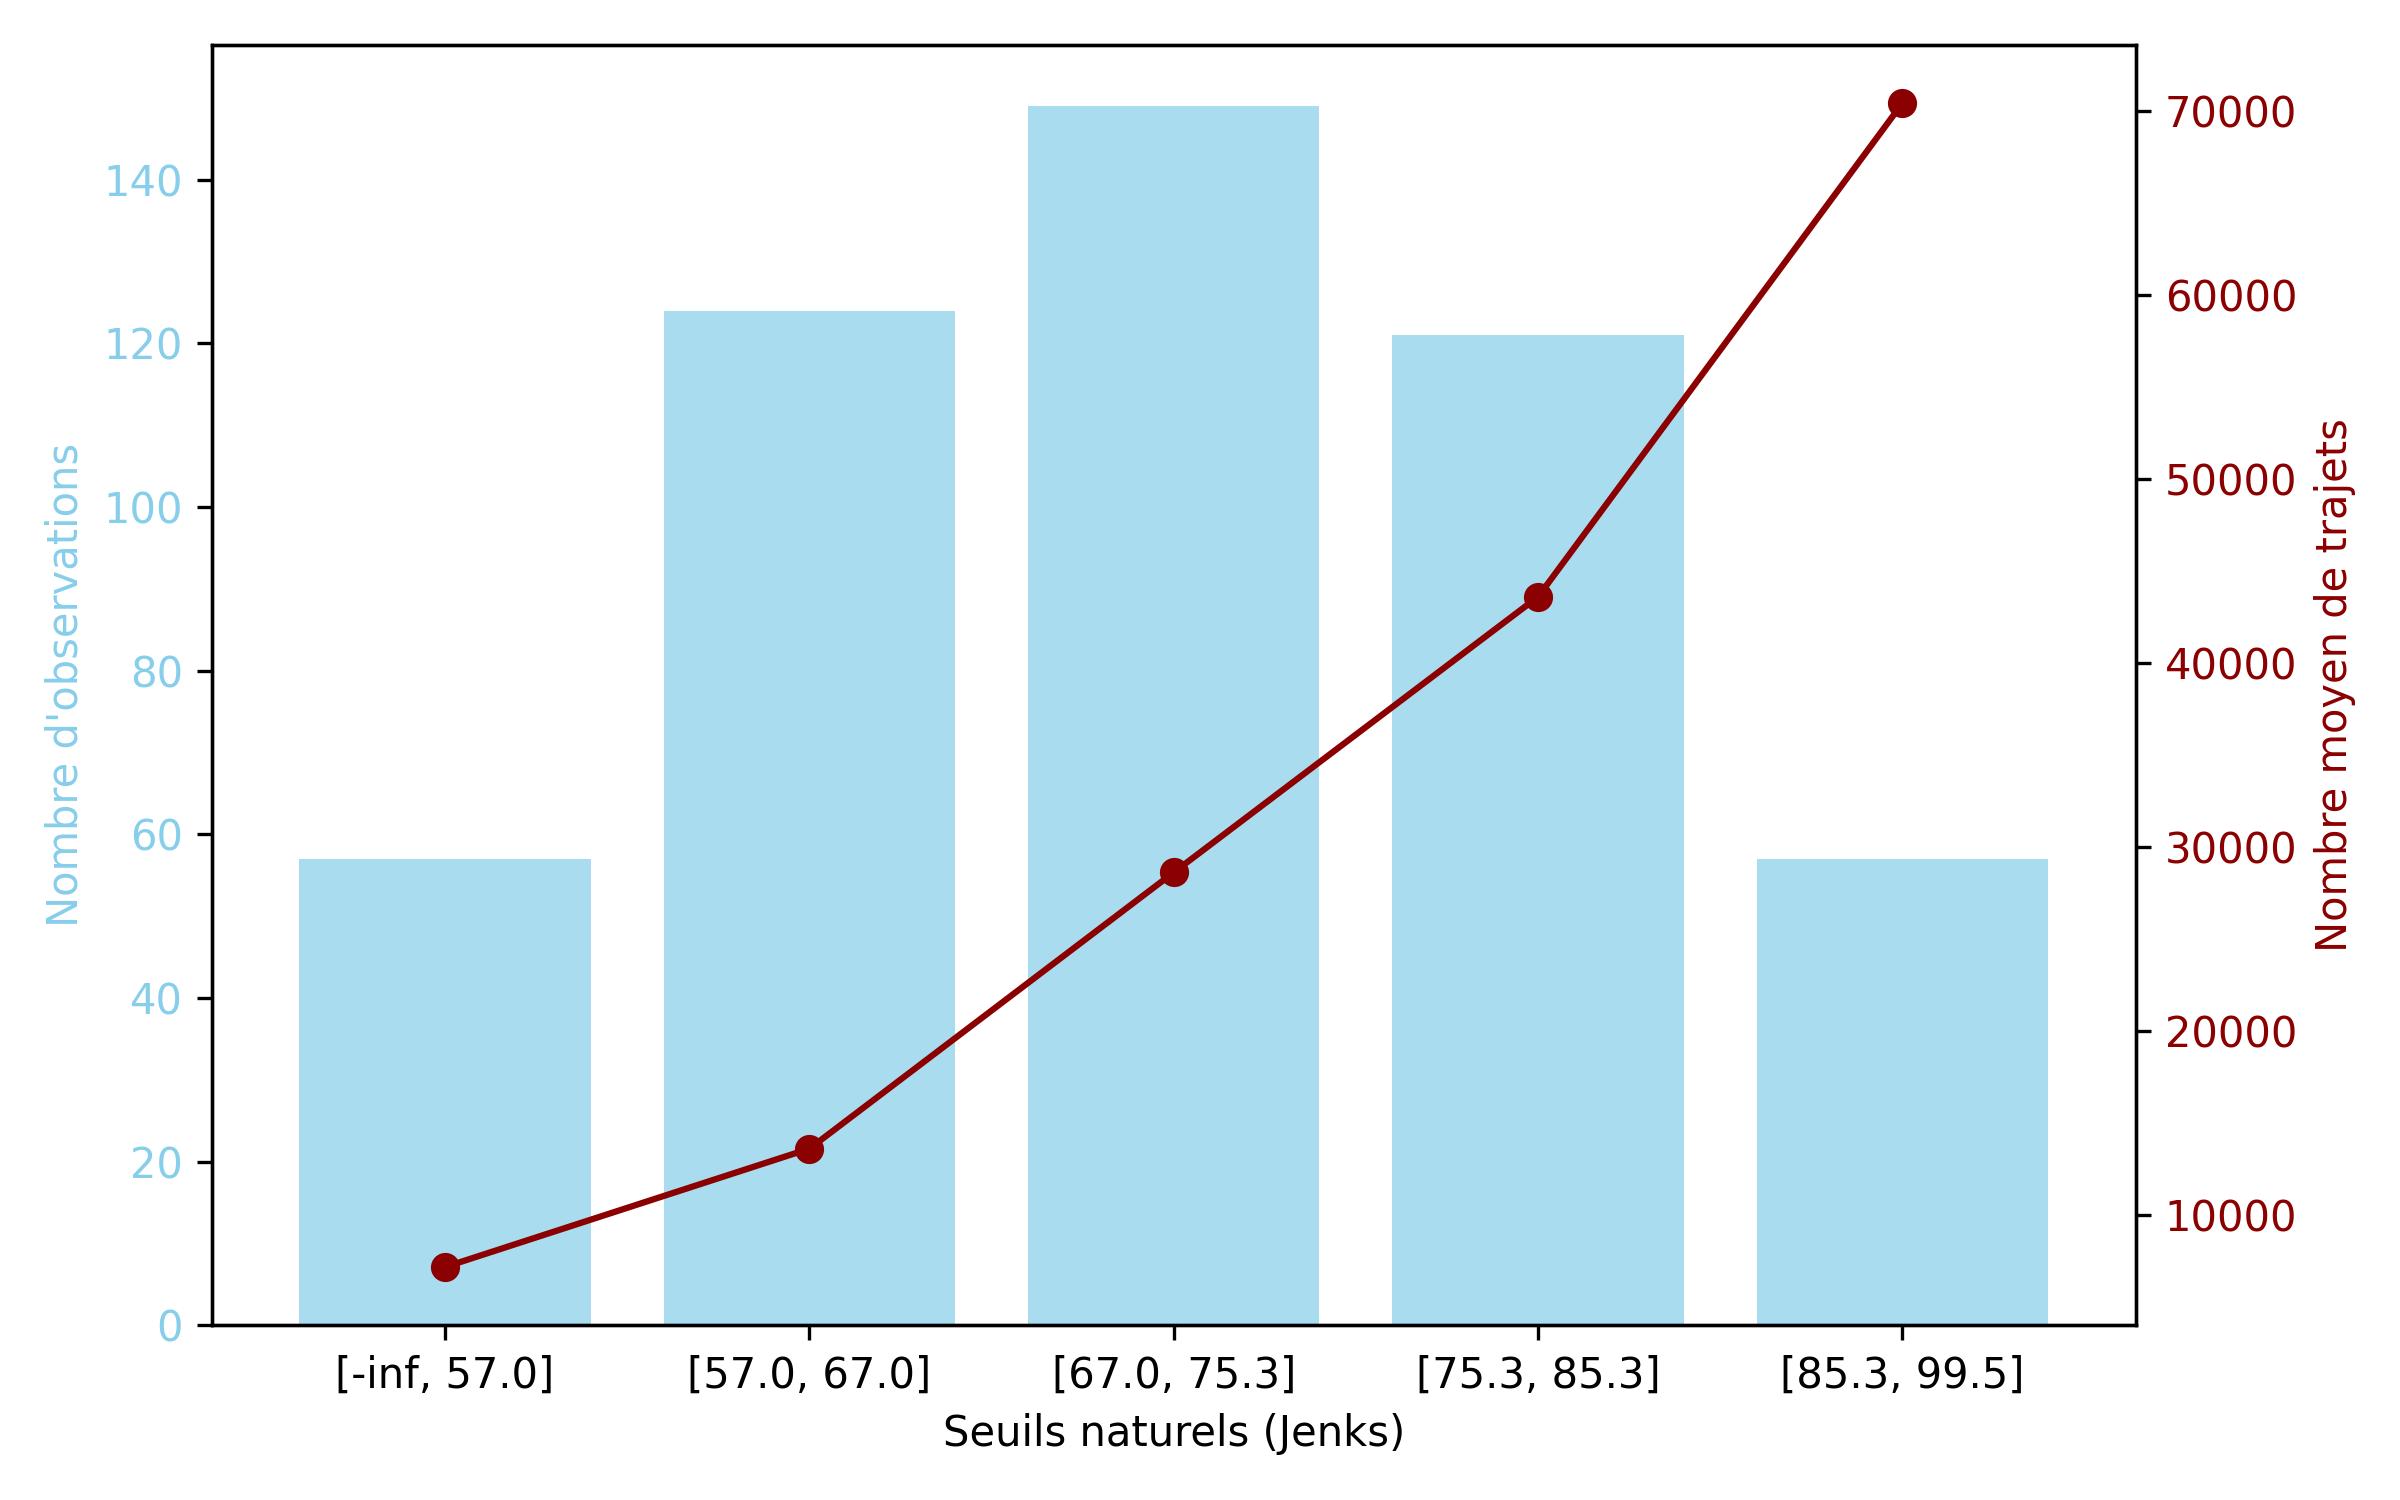
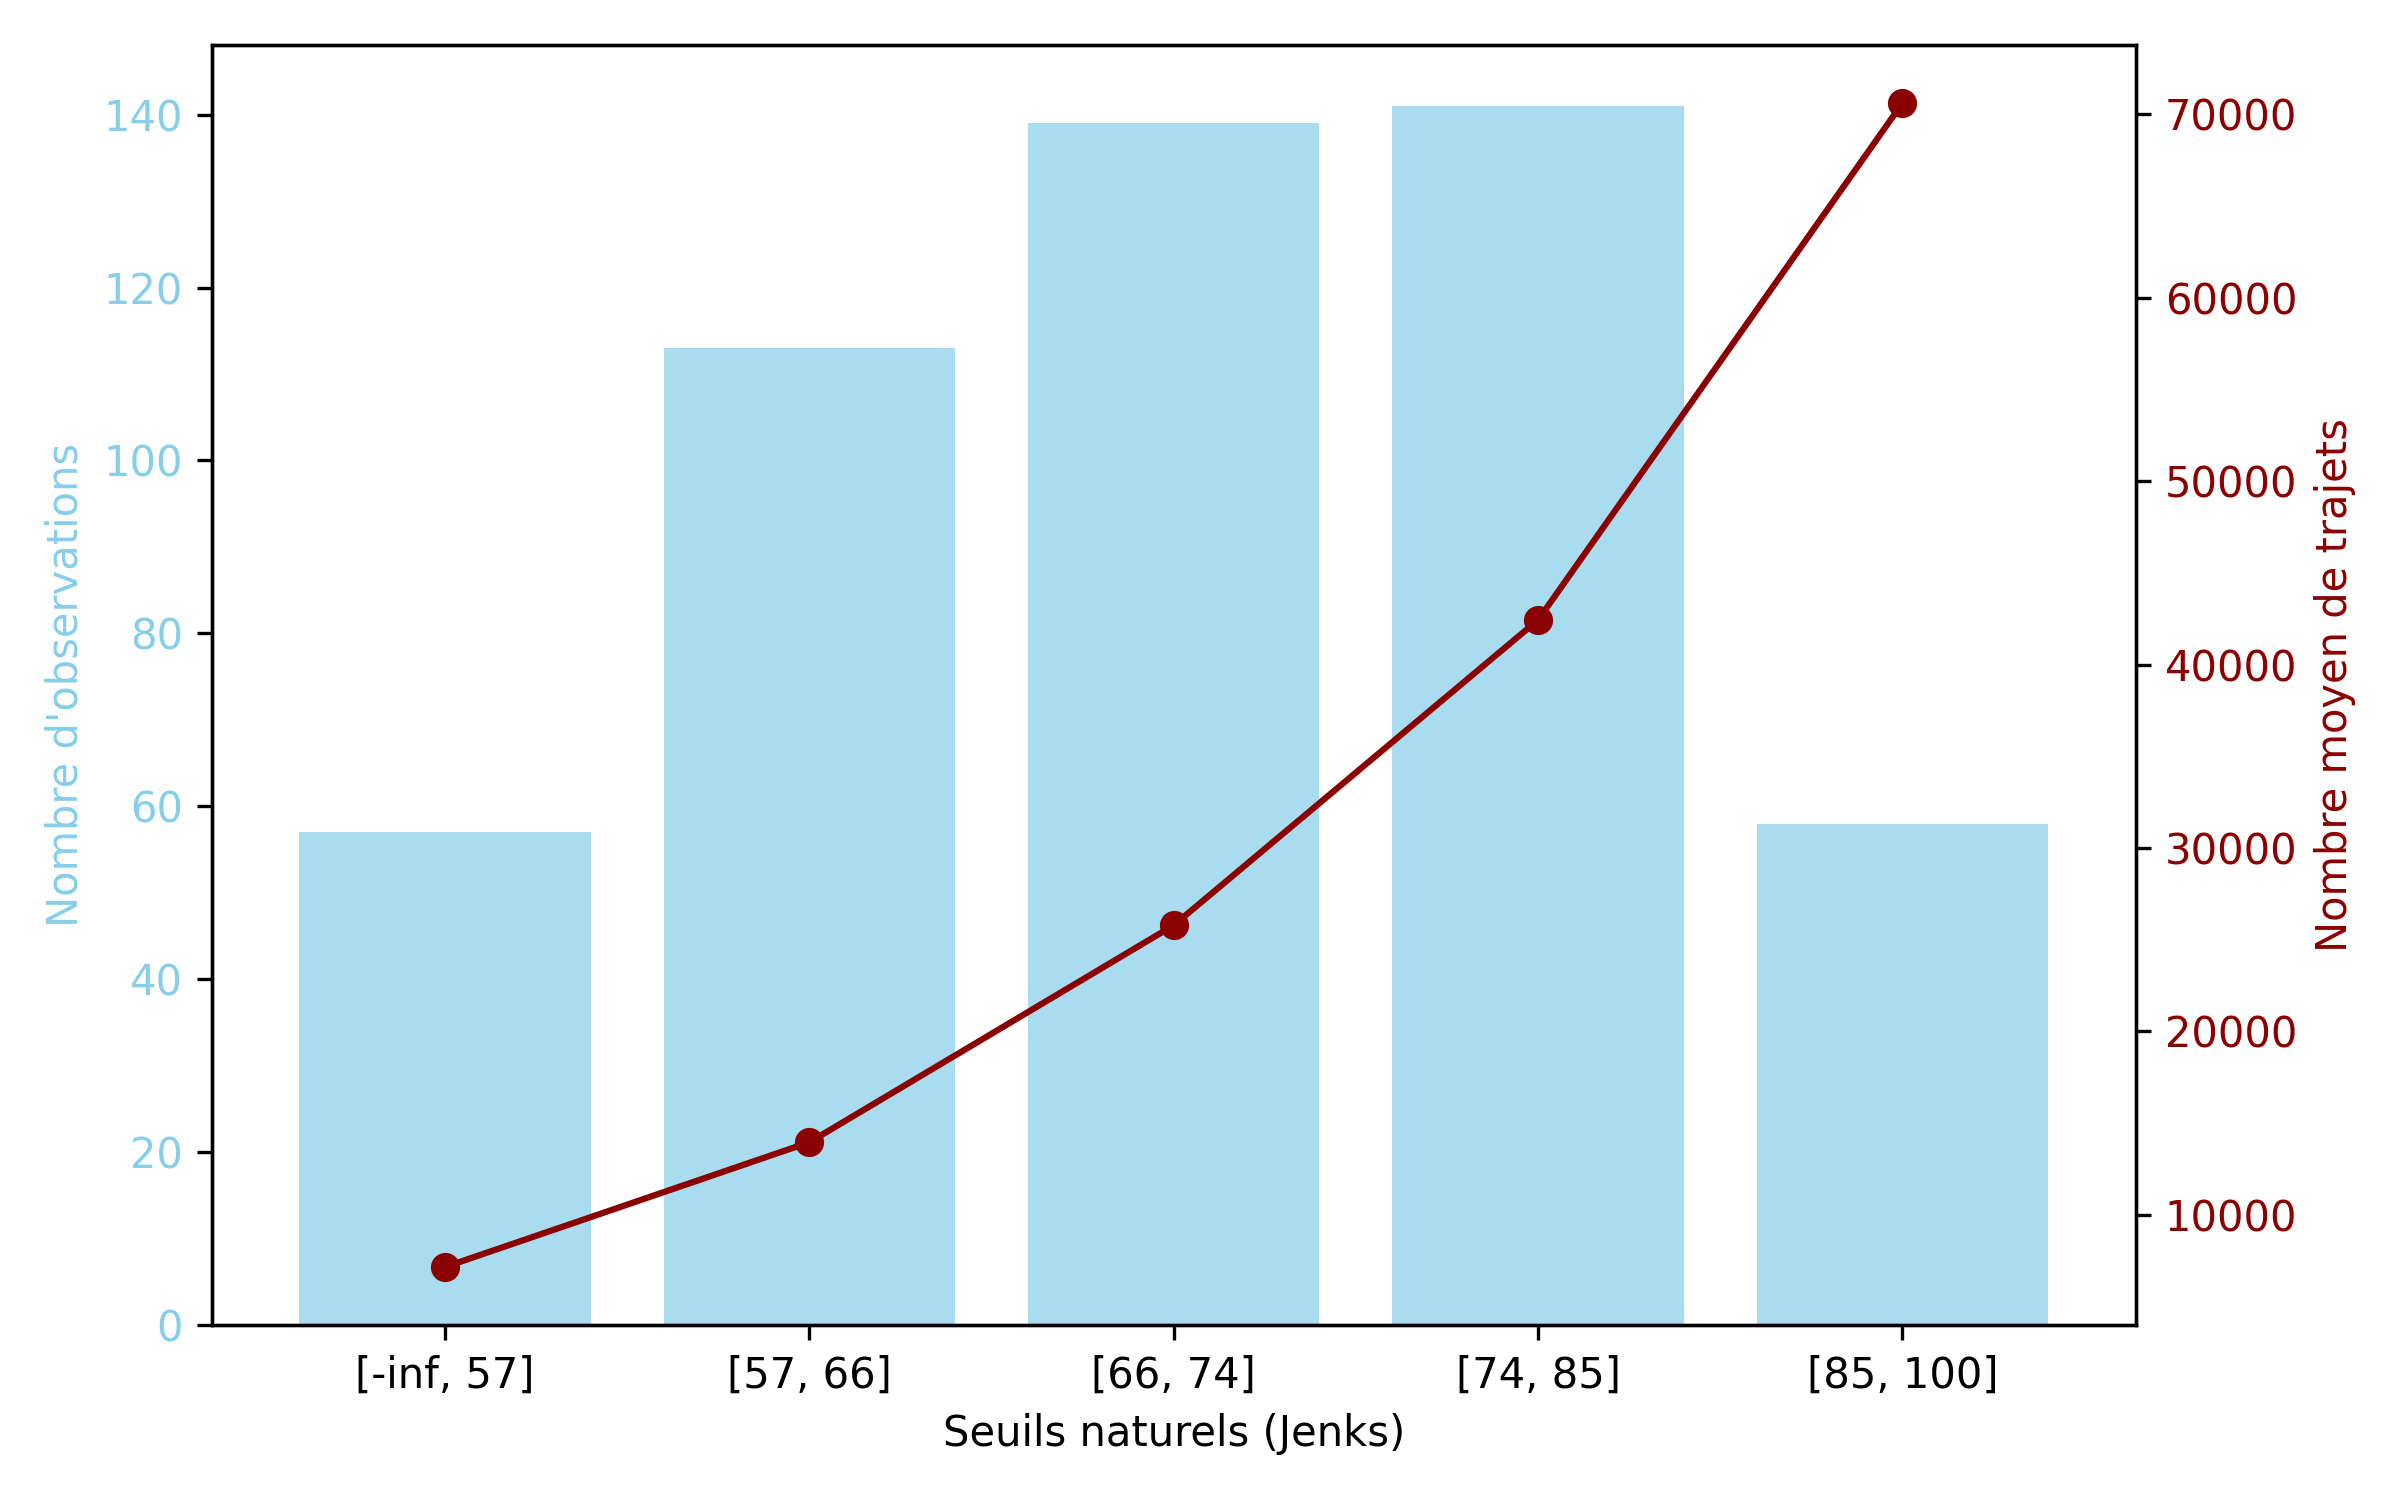
add manuals bins

diff --git a/scripts/visuals/generate_visuals.py b/scripts/visuals/generate_visuals.py
@@ -7,17 +7,35 @@ import os
 import numpy as np
 from scipy.stats import spearmanr
 import mapclassify
+# Dictionnaire pour labels des axes X
+LABELS_X = {
+    "aire_parc": "Superficie des parcs (ha)",
+    "nombre_uni": "Nombre d'universités",
+    "walk_sc_mo": "Walk Score",
+    "tran_sc_mo": "Transit Score",
+    "bike_sc_mo": "Bike Score",
+    "l_m": "Longueur pistes cyclables (m)",
+    "l4s_m": "Longueur pistes cyclables 4 saisons (m)",
+    "p4s_m": "Longueur pistes cyclables 4 saisons protégées (m)",
+    "np4s_m": "Longueur pistes cyclables 4 saisons non protégées (m)",
+    "densite_es": "Densité de population (hab/ha)",
+    "distance_c": "Distance au centre-ville (km)",
+    "densite_lo": "Densité de logements (log/ha)",
+    "nb_cegep": "Nombre de cégeps"
+}
 
 def analyser_relation(df, x_col, y_col, output_prefix, correlation_csv="../../output/correlations.csv", x_unit="",
-                      decimals=2):
+                      decimals=2, manual_bins=None):
     data = df[[x_col, y_col]].copy()
     data = data.replace([-1], pd.NA).dropna()
 
+
+    # Corrélations
     r_sp, p_sp = spearmanr(data[x_col], data[y_col])
     r, p_value = pearsonr(data[x_col], data[y_col])
     print(f"{output_prefix} - R: {r:.3f}, p-value: {p_value:.3e}")
 
-    # Export corrélation dans CSV (append ou création)
+    # Export CSV
     corr_df = pd.DataFrame([{
         "x_variable": x_col,
         "y_variable": y_col,
@@ -46,23 +64,20 @@ def analyser_relation(df, x_col, y_col, output_prefix, correlation_csv="../../ou
     plt.savefig(f"../../output/{output_prefix}_scatter.png", dpi=300)
     plt.close()
 
-    # Classer avec Jenks
+    # Jenks
     classifier = mapclassify.NaturalBreaks(data[x_col], k=5)
-    bins = [-float("inf")] + list(classifier.bins)  # inclure min
+    bins = [-float("inf")] + list(classifier.bins)
     data["bin_jenks"] = pd.cut(data[x_col], bins=bins, include_lowest=True)
 
-    # Grouper : taille et moyenne
     grouped = data.groupby("bin_jenks").agg(
         n_obs=(x_col, "count"),
         mean_trajets=(y_col, "mean")
     ).reset_index()
 
-    # Formatter les labels des intervalles Jenks
     grouped["bin_label"] = grouped["bin_jenks"].apply(
         lambda x: f"[{x.left:.{decimals}f}, {x.right:.{decimals}f}]"
     )
 
-    # --- Graph ---
     fig, ax1 = plt.subplots(figsize=(8, 5))
     ax1.bar(grouped["bin_label"], grouped["n_obs"], color="skyblue", alpha=0.7, label="Nombre d'observations")
     ax1.set_ylabel("Nombre d'observations", color="skyblue")
@@ -73,13 +88,11 @@ def analyser_relation(df, x_col, y_col, output_prefix, correlation_csv="../../ou
     ax2.plot(grouped["bin_label"], grouped["mean_trajets"], color="darkred", marker="o", label="Nb trajets moyen")
     ax2.set_ylabel("Nombre moyen de trajets", color="darkred")
     ax2.tick_params(axis="y", labelcolor="darkred")
-
-#    plt.title("Observations et trajets moyens par bin (Jenks)")
     fig.tight_layout()
     plt.savefig(f"../../output/{output_prefix}_jenks.png", dpi=300)
     plt.close()
 
-    # Barplot par quantiles
+    # Quantiles
     data["quantile"] = pd.qcut(data[x_col], q=5, duplicates="drop")
     grouped = data.groupby("quantile")[y_col].mean().reset_index()
 
@@ -93,7 +106,7 @@ def analyser_relation(df, x_col, y_col, output_prefix, correlation_csv="../../ou
     plt.savefig(f"../../output/{output_prefix}_barplot.png", dpi=300)
     plt.close()
 
-    # Histogramme de x_col
+    # Histogramme
     plt.figure(figsize=(8, 5))
     sns.histplot(data[x_col], kde=True, color="skyblue", edgecolor="k")
     plt.title(f"Distribution de {x_col}")
@@ -103,6 +116,54 @@ def analyser_relation(df, x_col, y_col, output_prefix, correlation_csv="../../ou
     plt.tight_layout()
     plt.savefig(f"../../output/{output_prefix}_hist_{x_col}.png", dpi=300)
     plt.close()
+
+    # --- Nouveau : Barplot avec bins manuelles ---
+    # --- Nouveau : Barplot avec bins manuelles ---
+    # --- Nouveau : Graph avec bins manuelles ---
+    if manual_bins is not None:
+        try:
+            # Appliquer les bins manuelles
+            data["manual_bin"] = pd.cut(data[x_col], bins=manual_bins, include_lowest=True)
+
+            # Grouper : taille et moyenne
+            grouped = data.groupby("manual_bin").agg(
+                n_obs=(x_col, "count"),
+                mean_trajets=(y_col, "mean")
+            ).reset_index()
+
+            # Labels jolis pour l’axe X
+            grouped["bin_label"] = grouped["manual_bin"].apply(
+                lambda x: f"[{x.left:.{decimals}f}, {x.right:.{decimals}f}]"
+            )
+
+            # --- Graph ---
+            fig, ax1 = plt.subplots(figsize=(8, 5))
+            ax1.bar(grouped["bin_label"], grouped["n_obs"],
+                    color="skyblue", alpha=0.7, label="Nombre d'observations")
+            ax1.set_ylabel("Nombre d'observations", color="skyblue")
+            ax1.tick_params(axis="y", labelcolor="skyblue")
+            # Récupérer un label lisible pour l'axe X
+            xlabel_text = LABELS_X.get(x_col, x_col)
+           # if x_unit:  # si unité définie dans l'appel → on l’ajoute
+            #    xlabel_text = f"{xlabel_text} ({x_unit})"
+
+            ax1.set_xlabel(xlabel_text)
+
+            ax2 = ax1.twinx()
+            ax2.plot(grouped["bin_label"], grouped["mean_trajets"],
+                     color="darkred", marker="o", label="Nb trajets moyen")
+            ax2.set_ylabel("Nombre moyen de trajets", color="darkred")
+            ax2.tick_params(axis="y", labelcolor="darkred")
+
+            fig.tight_layout()
+            plt.savefig(f"../../output/{output_prefix}_manualbins.png", dpi=300)
+            plt.close()
+
+        except Exception as e:
+            print(f"⚠ Erreur lors du tracé avec bins manuelles pour {x_col}: {e}")
+
+
+
 
 
 def generer_matrice_correlation(df, colonnes, output_path="../../output/correlation_matrix.png"):
@@ -177,23 +238,31 @@ def main():
     season = season + "/250m"
     # Lancer l'analyse sur différentes variables
     analyser_relation(hexagones, "aire_parc", "nb_trajets", f"{season}/parc_vs_trajets",
-                      correlation_csv=f"../../output/{season}/correlations.csv", x_unit="ha", decimals=1)
+                      correlation_csv=f"../../output/{season}/correlations.csv", x_unit="ha", decimals=0,
+                      manual_bins=[0, 1,3, 5, 7,11, np.inf])
 
     analyser_relation(hexagones, "nombre_uni", "nb_trajets", f"{season}/nb_universite_vs_trajets",
                       correlation_csv=f"../../output/{season}/correlations.csv", decimals=0)
 
     analyser_relation(hexagones, "walk_sc_mo", "nb_trajets", f"{season}/walkscore_vs_trajets",
-                      correlation_csv=f"../../output/{season}/correlations.csv", decimals=1)
+                      correlation_csv=f"../../output/{season}/correlations.csv", decimals=0,
+        manual_bins=[0, 60, 70, 80, 90, 100]
+                      )
 
     analyser_relation(hexagones, "tran_sc_mo", "nb_trajets", f"{season}/transitscore_vs_trajets",
-                      correlation_csv=f"../../output/{season}/correlations.csv", decimals=1)
+                      correlation_csv=f"../../output/{season}/correlations.csv", decimals=0,
+        manual_bins=[0, 60, 70, 80, 90, 100]
+                      )
 
     analyser_relation(hexagones, "bike_sc_mo", "nb_trajets", f"{season}/bikescore_vs_trajets",
-                      correlation_csv=f"../../output/{season}/correlations.csv", decimals=1)
+                      correlation_csv=f"../../output/{season}/correlations.csv", decimals=0,
+        manual_bins=[0, 60, 70, 80, 90, 100]
+                      )
 
     analyser_relation(hexagones, "l_m", "nb_trajets", f"{season}/longueur_piste_cyclable_vs_trajets",
-                      correlation_csv=f"../../output/{season}/correlations.csv", x_unit="m", decimals=0)
-
+                      correlation_csv=f"../../output/{season}/correlations.csv", x_unit="m", decimals=0,
+        manual_bins = [0, 100, 200, 500, 1000, 1500, np.inf]
+        )
     analyser_relation(hexagones, "l4s_m", "nb_trajets", f"{season}/longueur_piste_cyclable_4saisons_vs_trajets",
                       correlation_csv=f"../../output/{season}/correlations.csv", x_unit="m", decimals=0)
 
@@ -204,13 +273,19 @@ def main():
                       correlation_csv=f"../../output/{season}/correlations.csv", x_unit="m", decimals=0)
 
     analyser_relation(hexagones, "densite_es", "nb_trajets", f"{season}/densite_population_vs_trajets",
-                      correlation_csv=f"../../output/{season}/correlations.csv", x_unit="ha/km²", decimals=0)
+                      correlation_csv=f"../../output/{season}/correlations.csv", x_unit="ha/km²", decimals=0,
+        manual_bins=[0, 5000, 9000, 12500, 20000, np.inf]
+                      )
 
     analyser_relation(hexagones, "distance_c", "nb_trajets", f"{season}/distance_centre-ville_vs_trajets",
-                      correlation_csv=f"../../output/{season}/correlations.csv", x_unit="km", decimals=1)
+                      correlation_csv=f"../../output/{season}/correlations.csv", x_unit="km", decimals=0,
+        manual_bins=[ 0, 2, 4,6,8, 10, 18]
+                      )
 
     analyser_relation(hexagones, "densite_lo", "nb_trajets", f"{season}/densite_logements_vs_trajets",
-                      correlation_csv=f"../../output/{season}/correlations.csv", x_unit="log/ha", decimals=0)
+                      correlation_csv=f"../../output/{season}/correlations.csv", x_unit="log/ha", decimals=0,
+        manual_bins=[ 0, 25, 50, 75, 100, np.inf]
+                      )
 
     analyser_relation(hexagones, "nb_cegep", "nb_trajets", f"{season}/nb_cegep_vs_trajets",
                       correlation_csv=f"../../output/{season}/correlations.csv", decimals=0)
